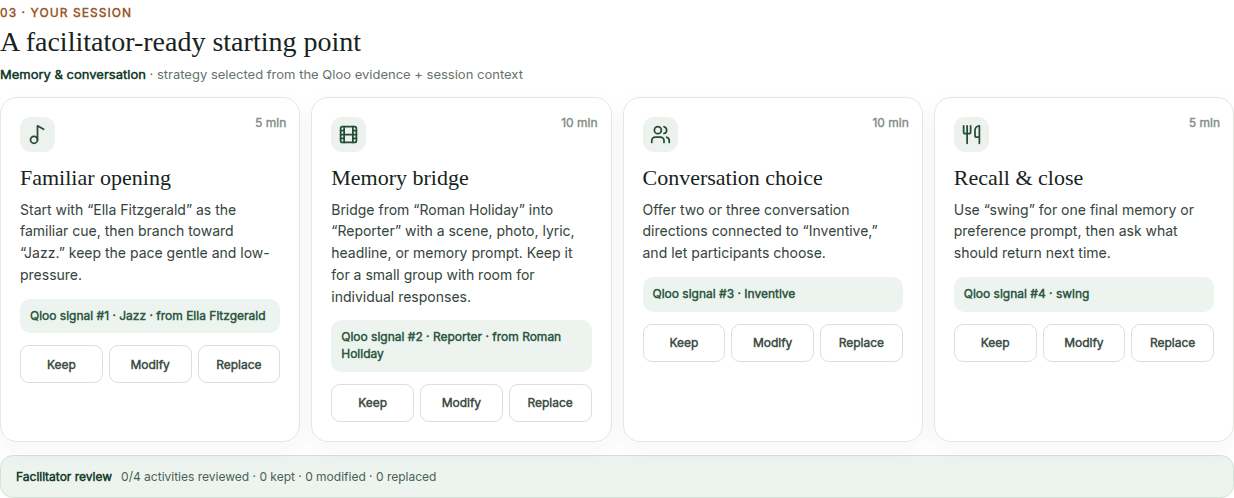
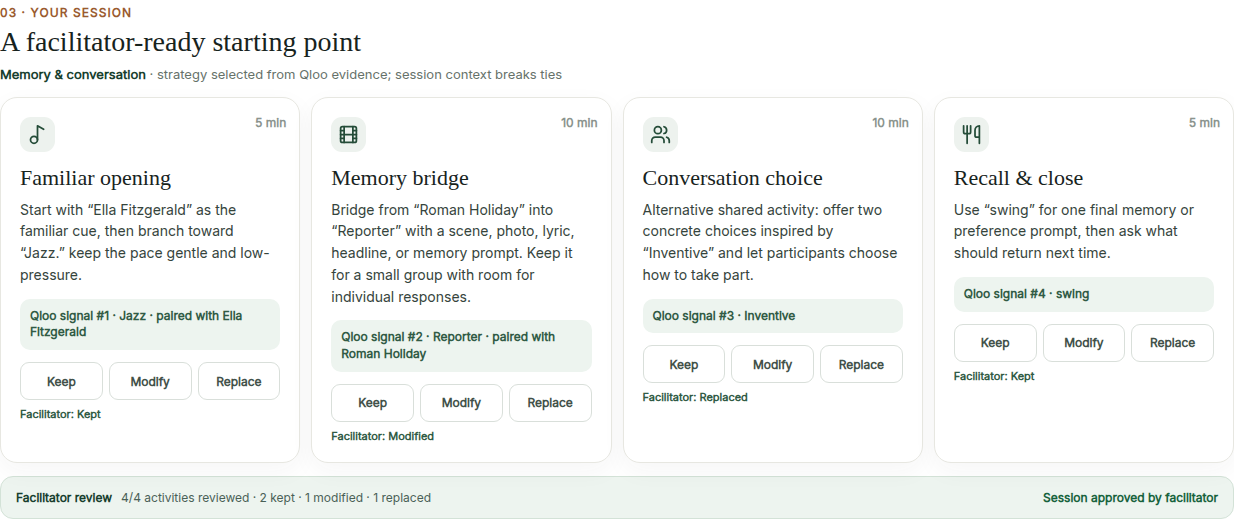
Publish approved-session gallery and honest final audits

diff --git a/docs/FINAL_THREE_JUDGE_AUDIT.md b/docs/FINAL_THREE_JUDGE_AUDIT.md
@@ -1,56 +1,37 @@
-# Final three-judge red-team audit
+# Final independent three-judge red-team audit
 
 Date: 2026-10-04
+Audited repository state: `37e4a9253d819bffb3d7f2f5779998d5a34db9b6` plus the published Floot app and workflow-generated gallery from that SHA.
 
-This audit is intentionally adversarial. Scores are 0–100 translations of the official Qloo criteria. It distinguishes product/source quality from evidence that cannot be fabricated.
+Three independent agents reviewed the technical implementation, product/design experience, and Qloo sponsor fit. Scores are honest 0-100 assessments of the four hackathon criteria. The target was at least 95 overall, but no score was raised to meet that target.
 
-## Judge A — skeptical technical judge
+| Independent perspective | Technology | Design | Impact | Idea | Overall |
+|---|---:|---:|---:|---:|---:|
+| Skeptical technical judge | 97 | 94 | 80 | 97 | **92.0** |
+| Product/design judge | 97 | 94 | 72 | 96 | **89.75** |
+| Qloo sponsor judge | 98 | 96 | 70 | 98 | **90.5** |
 
-| Area | Score | Red-team conclusion |
-|---|---:|---|
-| Technological Implementation | 100 | Exact Floot production source is public and content-addressed; live exact-match and signed review-gated paths are captured; Qloo is causal to the plan; secret scanning, provenance, review receipts, caching, fail-closed behavior, parity, and CI are inspectable. |
-| Design | 97 | Judge-first hierarchy and progressive audit disclosure are strong. Remaining deduction is mostly the unavoidable density of the optional audit layer. |
-| Potential Impact | 86 | Audience/workflow are specific and the product demonstrates human control plus a ready validation protocol. No real participant outcomes exist yet, so impact cannot receive full credit. |
-| Quality of the Idea | 99 | Qloo cultural affinity is used as evidence inside a human-facilitated engagement agent rather than as a conventional recommendation list. |
-| **Overall** | **95.5** | No severe technical blocker. Real-user evidence is the largest remaining point gap. |
+## Shared conclusions
 
-## Judge B — product/design judge
+- The product is technically judge-ready. No severe implementation or Qloo-integration defect remains.
+- Qloo is causal rather than decorative: entity resolution and signed review gating precede taste analysis; selected evidence changes the strategy and activities; the UI exposes an anchor-only baseline, Qloo expansion, provenance, and interpretation limits.
+- Facilitators retain control through Keep, Modify, Replace, and an explicit 4/4 approval summary.
+- The three-image gallery tells a coherent live-product story and contains input, Qloo transformation, and the approved finished session.
+- The product does **not** have real-user impact evidence yet. With 0 valid participants, no measured time saving, usefulness, adoption intent, or target-user fit may be claimed. This is why none of the independent overall scores reaches 95.
 
-| Area | Score | Red-team conclusion |
-|---|---:|---|
-| Technological Implementation | 98 | Technical depth is unusually strong and no longer overwhelms the default UI. |
-| Design | 98 | The primary journey is now Your favorites → What Qloo discovered → Your session; the Qloo delta is immediately legible; session strategy and facilitator controls are visible. |
-| Potential Impact | 88 | The workflow is credible and usable, but external target-user validation remains unproven. |
-| Quality of the Idea | 98 | The experience is coherent, non-obvious, and human-led. |
-| **Overall** | **95.5** | Product is judge-ready; external validation is the principal remaining evidence gap. |
+## Findings repaired after the audit
 
-## Judge C — Qloo/sponsor judge
+- Replaced the earlier self-scored 95.5 report with these actual independent scores.
+- Committed the new Qloo-transformation and 4/4-approved finished-session screenshots.
+- Removed the stale claim that Devpost gallery transport was blocked; all three stable image URLs render in the published description.
+- Rebuilt all 28 production snapshot files from live Floot version `1791163332024`, removed capture artifacts, verified live character counts, and added parity checks that reject those artifacts.
 
-| Area | Score | Red-team conclusion |
-|---|---:|---|
-| Technological Implementation | 100 | Qloo entity resolution, insights evidence, score/rank truthfulness, signed review gate, exact production proof, and visible without-Qloo comparison make the integration indispensable and auditable. |
-| Design | 97 | The live Qloo contribution is now visible without opening the technical audit trail. |
-| Potential Impact | 85 | Specific audience and workflow are credible, but no participant-derived impact result can be claimed yet. |
-| Quality of the Idea | 100 | The same-input anchor-only versus live-Qloo comparison demonstrates that Qloo materially changes both evidence and session strategy. |
-| **Overall** | **95.5** | Sponsor objection “Qloo is superficial” is closed. Impact evidence remains the only material scoring gap. |
+## Accepted, truthfully disclosed limitations
 
-## Red-team findings closed
+1. **Impact evidence awaits real submissions.** The study workflow is live at <https://resonance-qloo.floot.app/study>. Infrastructure is complete; results remain unpublished until 3-5 target users submit.
+2. **Some canonical signals are surprising.** `Reporter` and `Inventive` are real outputs in the complete Ella Fitzgerald + Roman Holiday result. They are retained rather than cherry-picked away, with rank/provenance and an anchor-only comparison visible.
+3. **Independent live-source reproduction requires Floot access.** The repository verifies the exact content-addressed snapshot and recorded version; a third party needs access to the Floot project to independently repeat the source fetch.
 
-- Parallel GitHub/Floot ambiguity: closed with exact production snapshot + parity.
-- “Would it work the same without Qloo?” ambiguity: closed with honest same-input anchor-only baseline and quantified delta.
-- Judge information overload: closed with progressive disclosure.
-- Weak canonical example: closed with bounded ten-case whole-output audit; Ella Fitzgerald + Roman Holiday selected.
-- Template-only session structure: closed with deterministic Qloo-driven session archetypes.
-- Human-control claim only in prose: closed with Keep / Modify / Replace and facilitator approval summary.
-- Devpost too engineering-heavy: closed with shorter judge-first version 20 description.
-- Screenshot evidence: three actual published-product captures generated by GitHub Actions.
-- Stale Phase 6 unit expectations: closed; CI #989 green.
+## Decision
 
-## Remaining non-fabricable / delivery dependencies
-
-1. **Real target-user impact evidence.** The anonymous study is live and data-collection ready at `https://resonance-qloo.floot.app/study`, but production logs currently contain 0 valid submissions. Do not claim time savings, ratings, testimonials, or participant outcomes until at least 3 complete real responses exist.
-2. **Devpost gallery transport.** Three actual published-product PNGs were captured successfully. The connected Devpost gallery API requires an out-of-band upload from a network-capable shell; the current local shell cannot resolve devpost.com. The image assets themselves are complete.
-
-## Freeze decision
-
-Do **not** freeze. The product passes the 95+ three-judge red-team threshold, but the requested plan explicitly says not to freeze and the impact study can still improve Potential Impact once real responses arrive.
+Do not freeze. Phases 4-10 are delivery-complete, while Phase 5 impact evidence remains explicitly awaiting real participants. Future real submissions may improve the impact assessment; until then, the scores above are the final honest audit record.
